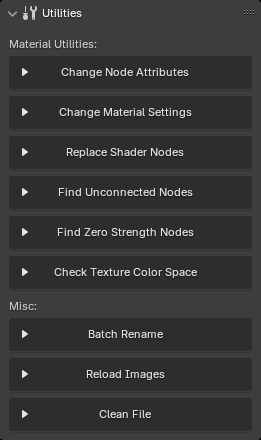
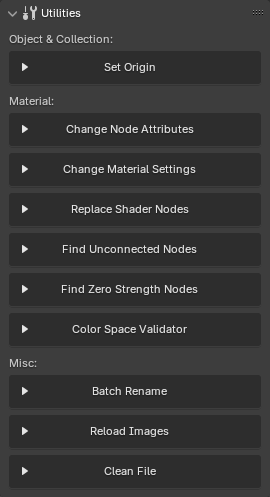
1.1.3

diff --git a/docs/extra/extra.css b/docs/extra/extra.css
@@ -168,7 +168,7 @@
 
 /* ######## < CHANGELOG > ######## */
 /* Compact */
-.md-typeset .changelog>blockquote>p{ /* Date */
+.md-typeset .changelog>blockquote>p{ /* Blockquote for blender version compability */
   margin-bottom:-0.9em;
   margin-top:-0.5em;
 }
@@ -181,5 +181,13 @@
 .md-typeset .changelog>ul>li>ul {
   margin-top:-0.1em;
   line-height: 1.5; /* 1.6 is default */
+}
+h3 small { /* Date */
+  margin-left: 0.7em;
+  font-size: 75%;
+}
+.changelog h3{
+  margin-top:-0.1em;
+  margin-bottom:-0.3em;
 }
 /* ######## </ CHANGELOG > ######## */

diff --git a/docs/changelog.md b/docs/changelog.md
@@ -11,9 +11,18 @@ Here, you can find a list of all updates, enhancements, and bug fixes made to Ba
 
 <div class="changelog" markdown>
 
-#### 1.1.2
+### 1.1.3 <small>2024-10-15</small>
 
-  > Date: 2024.10.13
+- **New functionality**:
+    - Added utility `Set Origin`: Adjust object origins to the minimum, maximum, or center along the X, Y, or Z axis based on their bounding box. [More info](utilities.md#set-origin)
+- **Bugfix**:
+    - Utility `Change Node Attributes`: Fixed an issue where the 'Only materials imported by BatchGenie' filter did not work when targeting 'Shader Node'.
+- **UI**:
+    - Minor improvements: Enhanced tooltips, small layout adjustments, and fixed a few typos.
+
+---
+
+### 1.1.2 <small>2024-10-13</small>
 
 - **Improved functionality**:
     - `Exporting `: When exporting via the Asset Browser, you now have the option to export selected assets as a single combined blend file, in addition to saving them as individual files.
@@ -22,9 +31,7 @@ Here, you can find a list of all updates, enhancements, and bug fixes made to Ba
 
 ---
 
-#### 1.1.1
-
-  > Date: 2024.10.13
+### 1.1.1 <small>2024-10-13</small>
 
 - **Improved functionality**:
     - `Exporting `: When exporting via the Asset Browser, you can now add a suffix to handle duplicate asset names. For instance, if you're exporting two assets both named "Cube," you can choose how they are renamed, such as "Cube.blend" and "Cube (2).blend".
@@ -33,9 +40,7 @@ Here, you can find a list of all updates, enhancements, and bug fixes made to Ba
 
 ---
 
-#### 1.1.0
-
-  > Date: 2024.10.12
+### 1.1.0 <small>2024-10-12</small>
 
 - **Bugfix**:
     - `Rendering`: Fixed an issue where rendering for certain collections would complete, but the cleanup of temporary files failed due to specific material node-groups. As a result, BatchGenie was unable to set the newly rendered image as the Asset thumbnail. This has now been resolved.
@@ -44,9 +49,7 @@ Here, you can find a list of all updates, enhancements, and bug fixes made to Ba
 
 ---
 
-#### 1.0.9
-
-  > Date: 2024.10.10
+### 1.0.9 <small>2024-10-10</small>
 
 - **New functionality**:
     - `Importing`: Batch import of blend files is now available. Import Objects, Collections and Materials. [More info](import.md#import-blend-files)
@@ -57,9 +60,7 @@ Here, you can find a list of all updates, enhancements, and bug fixes made to Ba
 
 ---
 
-#### 1.0.8
-
-  > Date: 2024.10.07
+### 1.0.8 <small>2024-10-07</small>
 
 - **New functionality**:
     - `Exporting`: Now integrated into the Asset Browser. More settings added; customize the export name & pack texture option. [More info](export.md)
@@ -72,18 +73,14 @@ Here, you can find a list of all updates, enhancements, and bug fixes made to Ba
 
 ---
 
-#### 1.0.7
-
-  > Date: 2024.10.05
+### 1.0.7 <small>2024-10-05</small>
 
 - **New / Improved functionality**:
     - `Exporting `: The functionality has been expanded to support exporting collections and materials. New options are now available to customize the export process. [More info](export.md)
 
 ---
 
-#### 1.0.6
-
-  > Date: 2024.10.04
+### 1.0.6 <small>2024-10-04</small>
 
 - **New functionality**:
     - New `Export objects`: Basic exporting functionality added. In the near future, the export functionality will be expanded and will also be available in the Asset Browser for easy exporting of your Assets in various formats. [More info](export.md)
@@ -94,9 +91,7 @@ Here, you can find a list of all updates, enhancements, and bug fixes made to Ba
 
 ---
 
-#### 1.0.5
-
-  > Date: 2024.10.03
+### 1.0.5 <small>2024-10-03</small>
 
 - **Bugfix**:
     - **CRITICAL**: `Rendering Assets`: Rendering Assets via the Asset Browser that are already present in your open scene may result in those objects being deleted from the scene. This issue has now been fixed, along with improvements to how temporary data is handled internally.
@@ -104,9 +99,7 @@ Here, you can find a list of all updates, enhancements, and bug fixes made to Ba
 
 ---
 
-#### 1.0.4
-
-  > Date: 2024.10.01
+### 1.0.4 <small>2024-10-01</small>
 
 - **Improved functionality**:
     - Utility `Load previews from disk`: Now supports more image formats.
@@ -115,9 +108,7 @@ Here, you can find a list of all updates, enhancements, and bug fixes made to Ba
 
 ---
 
-#### 1.0.3
-
-  > Date: 2024.10.01
+### 1.0.3 <small>2024-10-01</small>
 
 - **New functionality**:
     - New Utility `Load previews from disk`: Load custom Asset Preview images from a specified directory. [More info](utilities.md#load-previews-from-disk)
@@ -126,9 +117,7 @@ Here, you can find a list of all updates, enhancements, and bug fixes made to Ba
 
 ---
 
-#### 1.0.2
-
-  > Date: 2024.09.27
+### 1.0.2 <small>2024-09-27</small>
 
 - **New functionality**:
     - Utility `Add Asset Tag`: New Smart Tag: 'Material Type'. Tags the material with its type: "Texture-based" or "Procedural", with an option to include node counts for both types. Example: "Procedural (56 nodes)". [More info](utilities.md)
@@ -142,9 +131,7 @@ Here, you can find a list of all updates, enhancements, and bug fixes made to Ba
 
 ---
 
-#### 1.0.1
-
-  > Date: 2024.09.25
+### 1.0.1 <small>2024-09-25</small>
 
 - **New functionality**:
     - Utilities: `Change Node Attributes`, `Change Material Settings`, & `Replace Shader Nodes`: New keyword filtering function to filter materials by their names to include or exclude them from the batch process.
@@ -158,9 +145,9 @@ Here, you can find a list of all updates, enhancements, and bug fixes made to Ba
 
 ---
 
-#### 1.0.0
+### 1.0.0 <small>2024-09-21</small>
 
-  > Date: 2024.09.21. Compatibility: Blender 4.2 LTS +
+  > Compatibility: Blender 4.2 LTS +
 
   - First public release.
 

diff --git a/docs/utilities.md b/docs/utilities.md
@@ -17,6 +17,25 @@ BatchGenie offers a range of utilities to efficiently manage materials and other
 
 ## Batch Utilities
 
+### Set Origin
+
+> Location: 3D Viewport ▸ BatchGenie N-Panel ▸ Utilities
+
+Adjust the origin of Mesh objects to the minimum, maximum, or center along the X, Y, or Z axis based on their bounding box.
+
+![Set Origin Utility](images/utility_set-origin.png){ .img-box align=left }
+
+<h5>Settings</h5>
+- **Selection**: Allows you to specify which objects to target:
+    - **Selected Objects**
+    - **All Objects**
+    - **Objects marked as Assets**
+    - **Objects NOT marked as Assets**
+
+
+---
+
+
 ### Change Node Attributes
 
 > Location: 3D Viewport ▸ BatchGenie N-Panel ▸ Utilities
@@ -376,7 +395,7 @@ While not an all-encompassing renaming tool, this function provides targeted ass
         - **All Objects**
         - **Objects marked as Assets**
         - **Objects NOT marked as Assets**
-        - **Objects on Selected Objects**
+        - **Selected Objects**
 - **Set Image names same as the Image File names**
 
 
